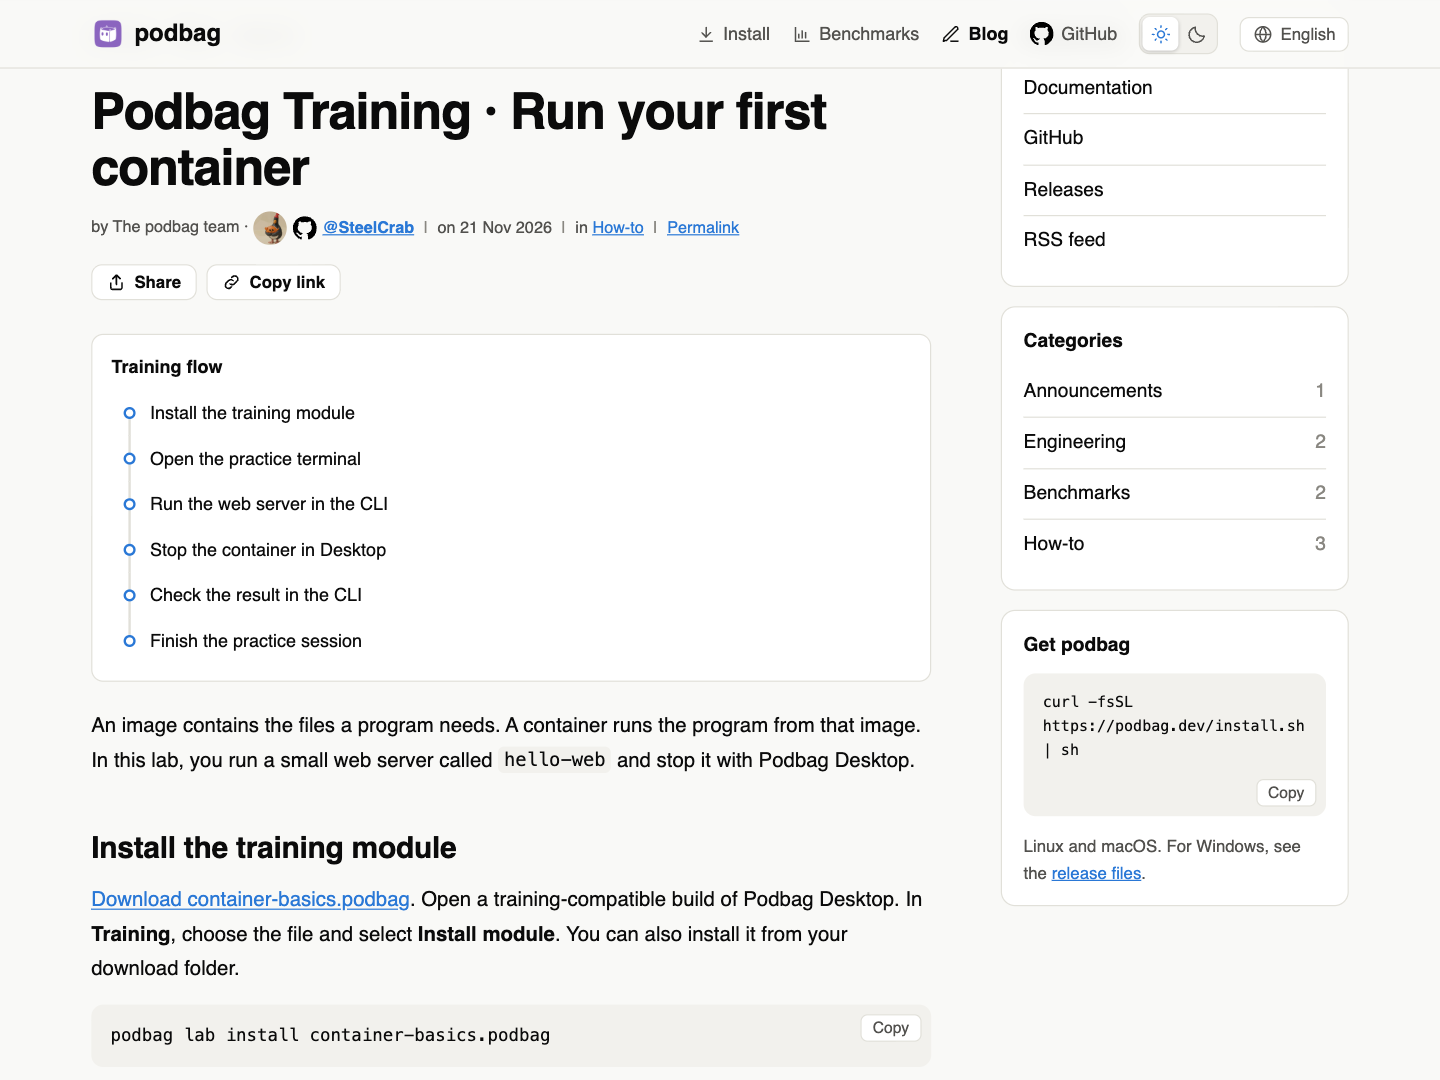
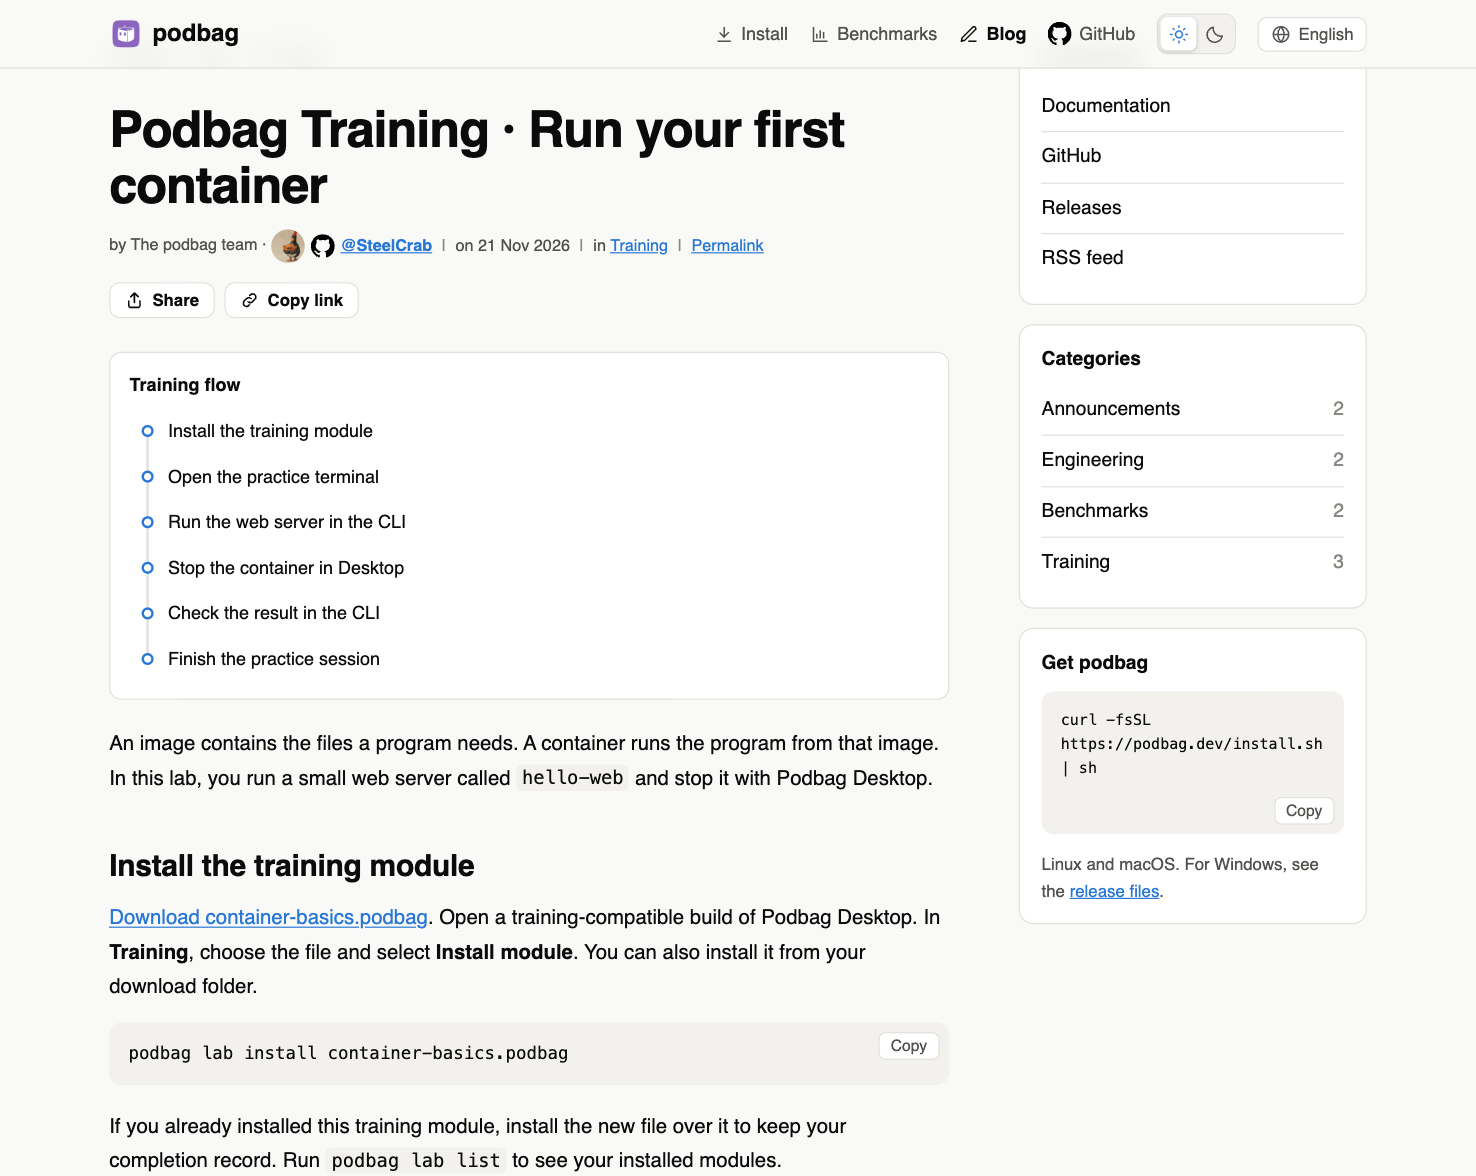
docs: call hands-on lessons Training in the blog

diff --git a/site/blog/posts/volume-api-lab/ko.md b/site/blog/posts/volume-api-lab/ko.md
@@ -1,5 +1,5 @@
 ---
-title: "실습 · 볼륨에 쓴 JSON을 HTTP로 읽기"
+title: "Podbag 트레이닝 · 볼륨에 쓴 JSON을 HTTP로 읽기"
 date: 2026-11-20
 author: team
 categories: [how-to]

diff --git a/site/blog/posts/container-basics/ko.md b/site/blog/posts/container-basics/ko.md
@@ -1,5 +1,5 @@
 ---
-title: "Podbag Training · 첫 컨테이너 실행하기"
+title: "Podbag 트레이닝 · 첫 컨테이너 실행하기"
 date: 2026-11-21
 author: team
 categories: [how-to]

diff --git a/site/blog/posts/cli-tui-volumes/ko.md b/site/blog/posts/cli-tui-volumes/ko.md
@@ -1,5 +1,5 @@
 ---
-title: "실습 · CLI와 GUI로 볼륨 관리하기"
+title: "Podbag 트레이닝 · CLI와 GUI로 볼륨 관리하기"
 date: 2026-11-20
 author: team
 categories: [how-to]
